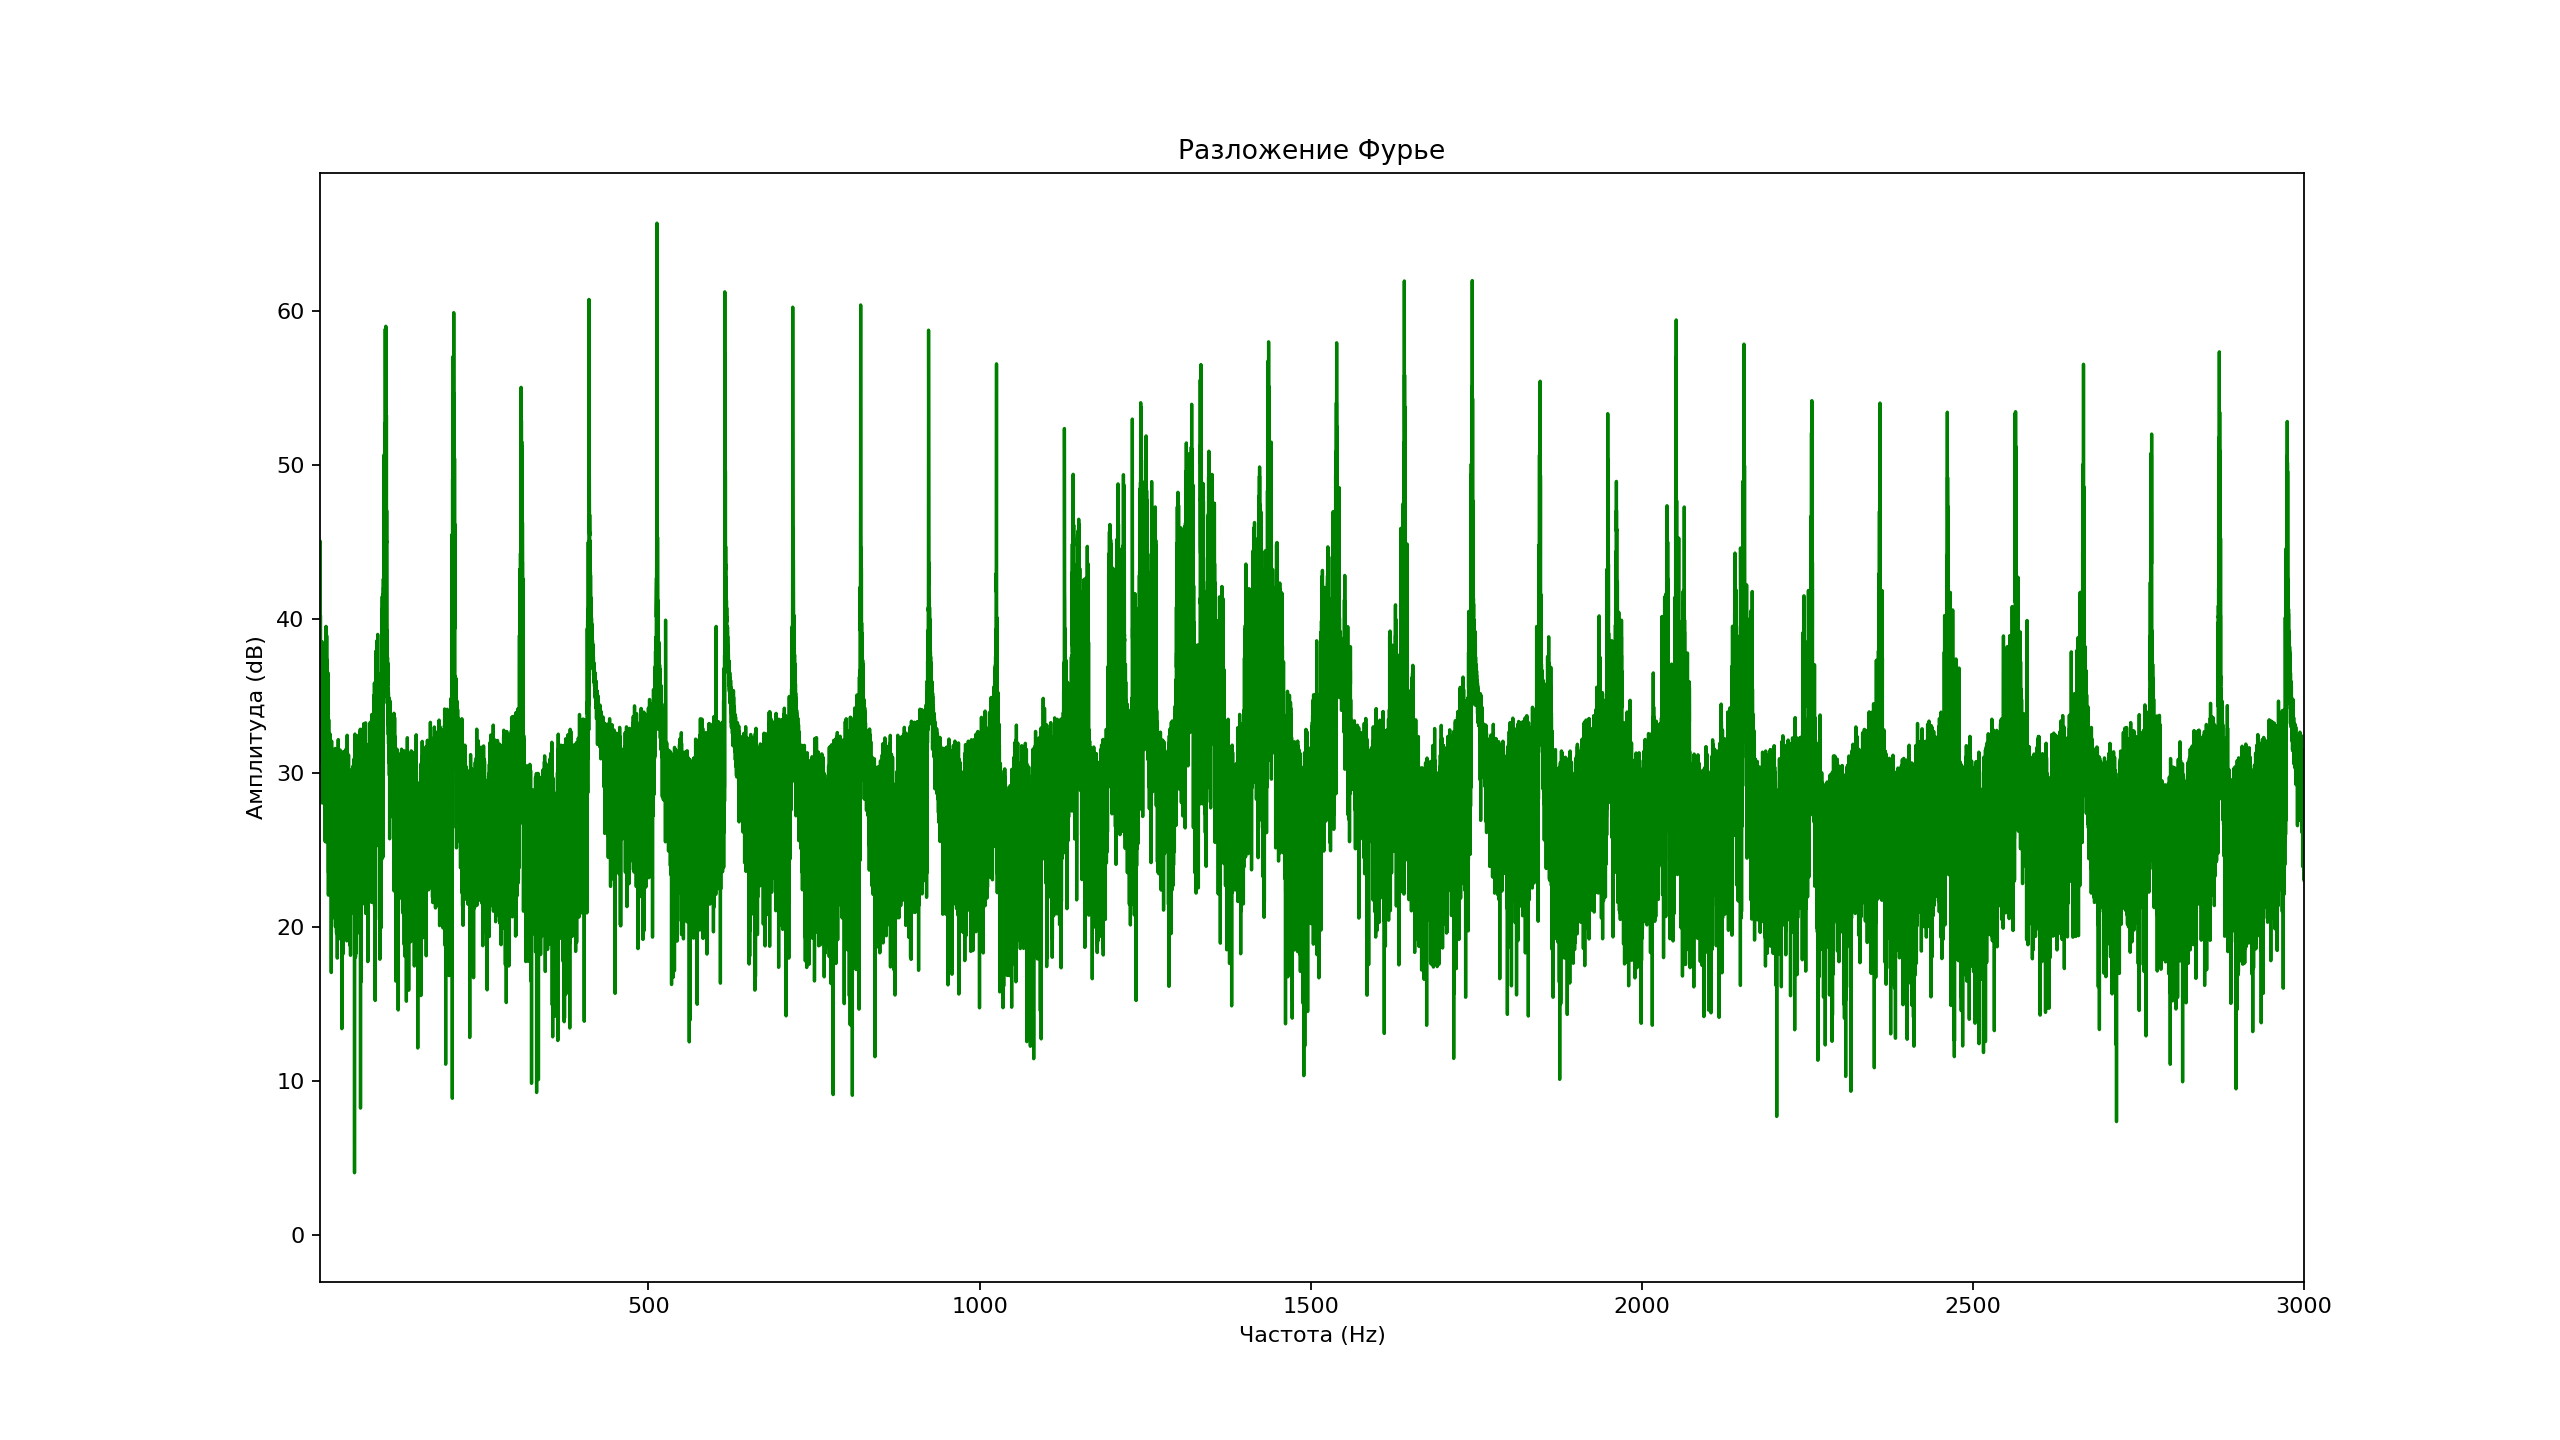
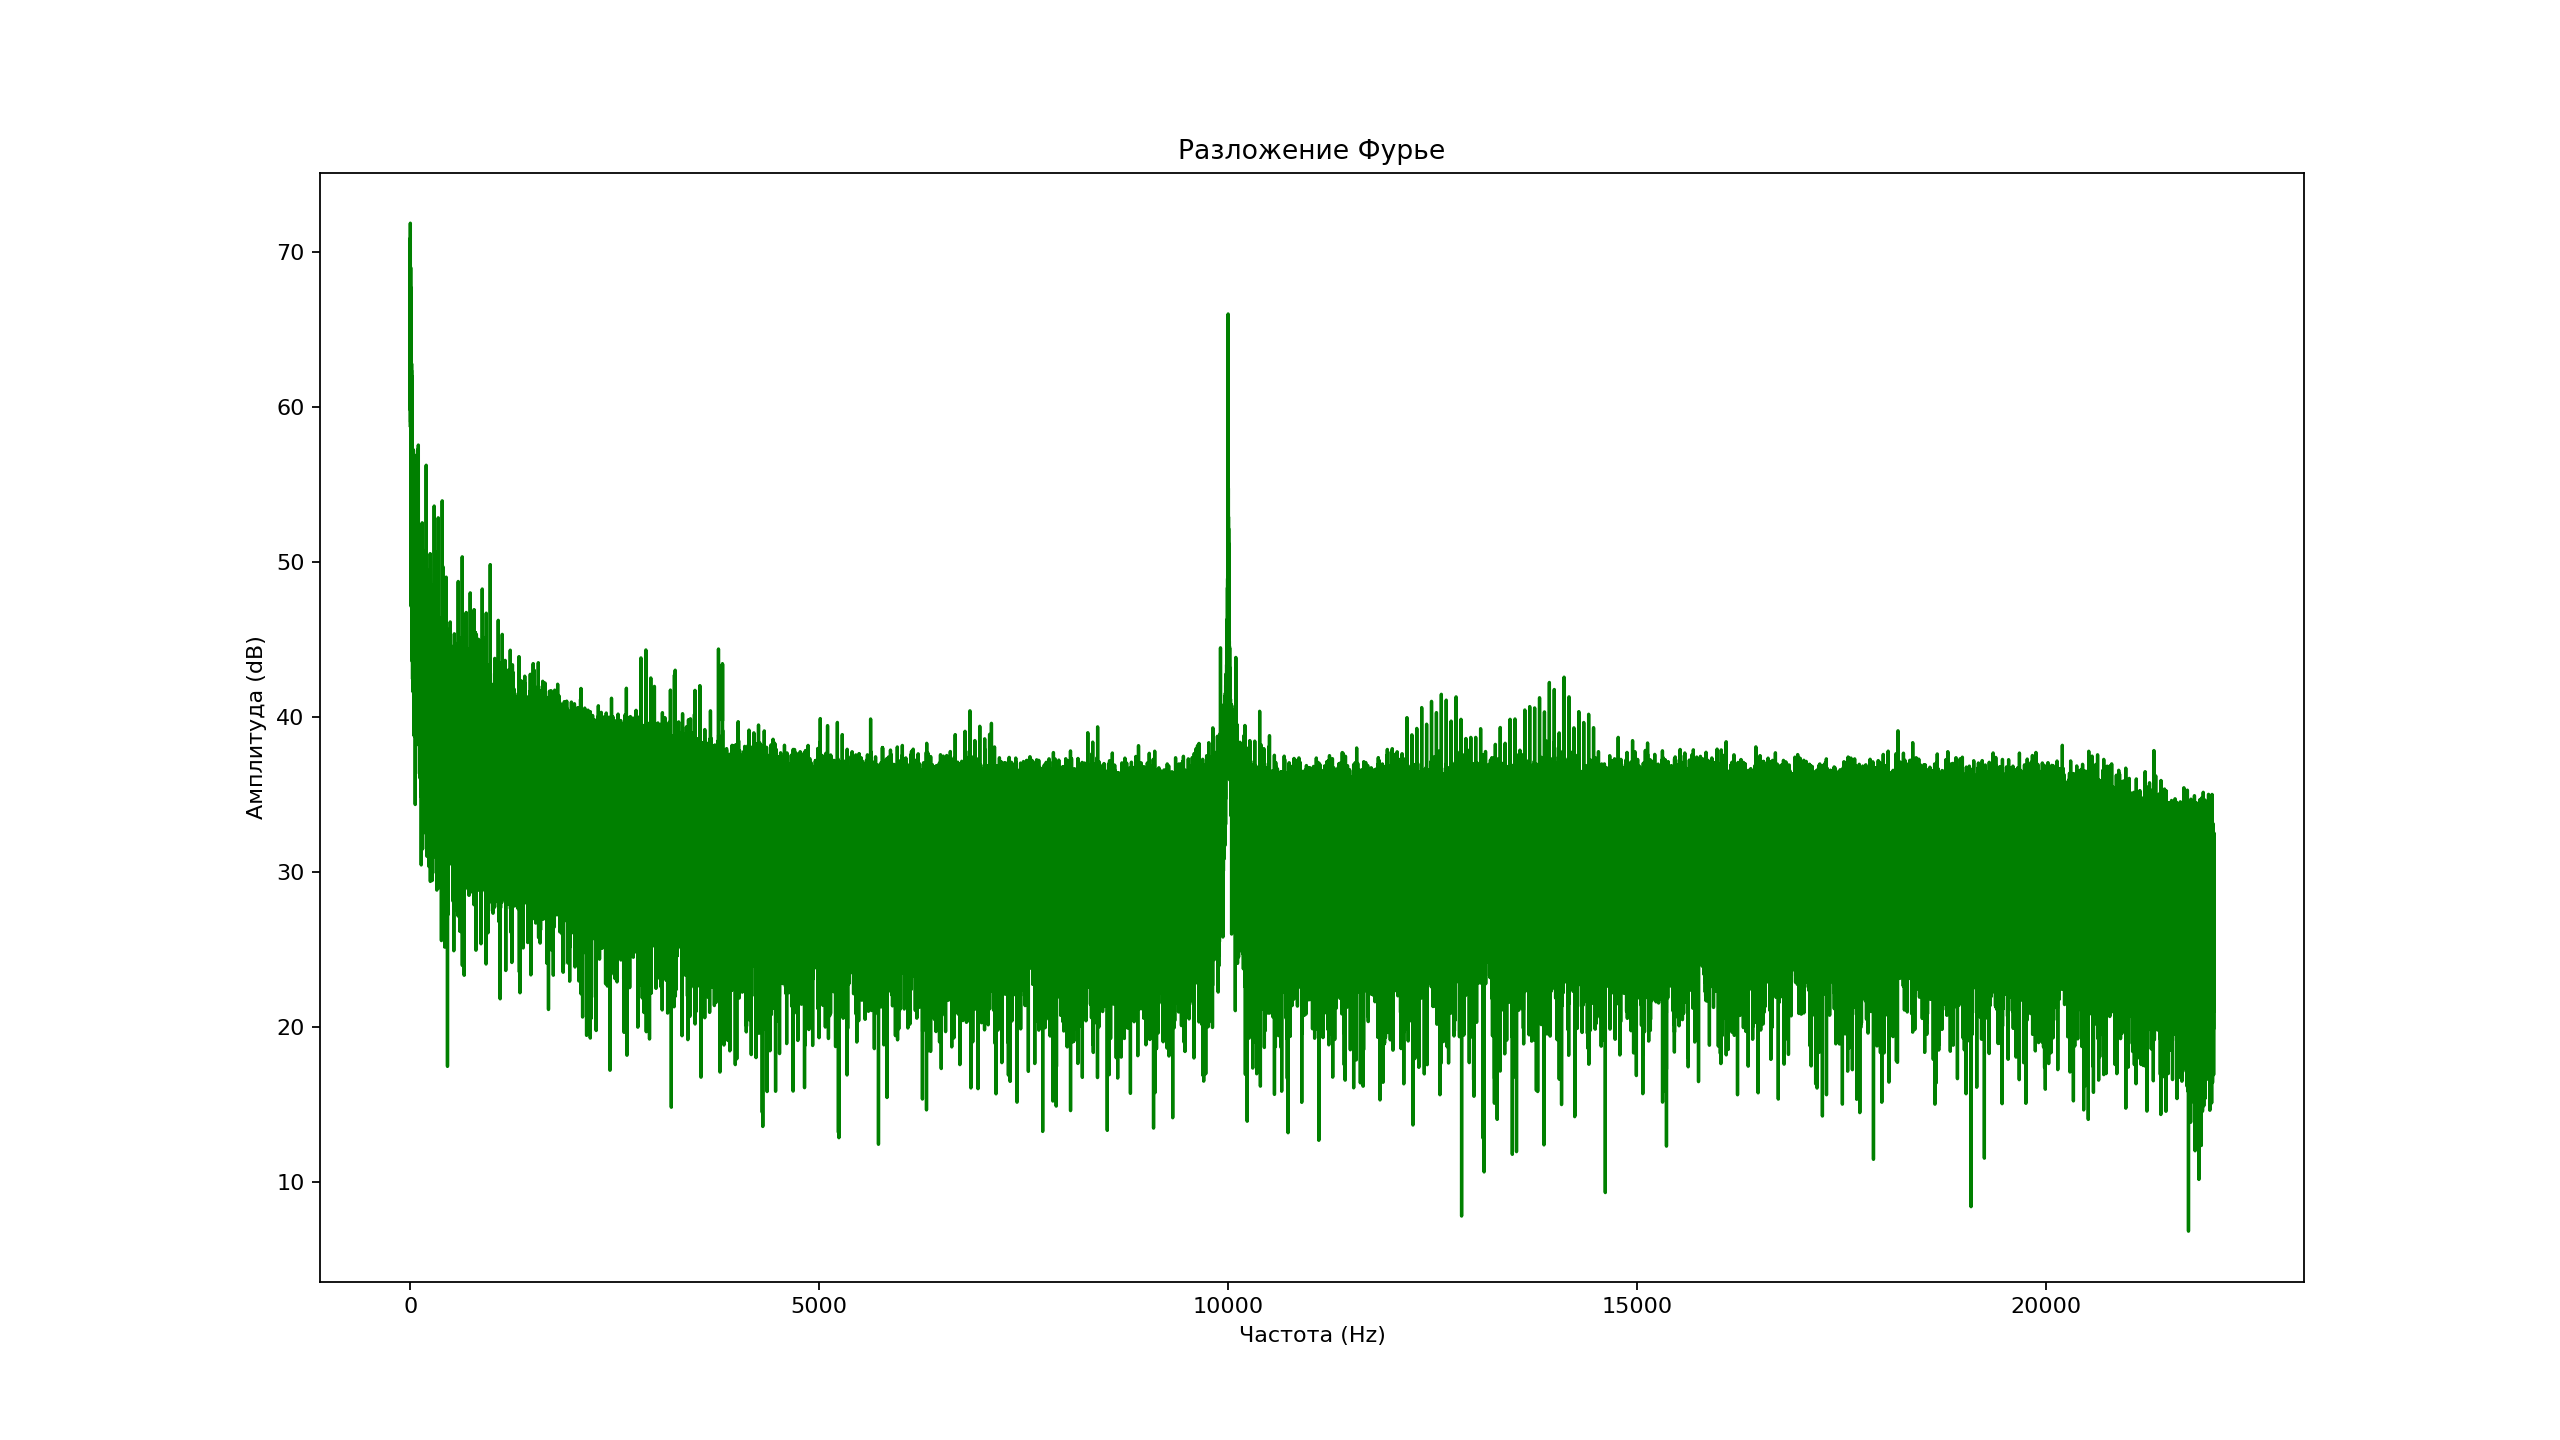
Исправлена запись файлов после разложения Фурье, нормально работает в одноканальном режиме

Changed region(s): [[0.125, 0.2188, 0.9062, 0.8125], [0.625, 0.875, 0.6562, 0.9062]]

diff --git a/fourier_transformer.py b/fourier_transformer.py
@@ -3,20 +3,48 @@ import numpy as np
 
 
 class Fft(object):
-    def __init__(self, fs, output_dir_fourier, prefix='four'):
+    def __init__(self, fs, chunk_size, four_length_second, output_dir_fourier, prefix='four'):
         self.fs = fs
+        self.chunk_size = chunk_size
+        self.four_length_second = four_length_second
+        self.max_frame_count = int(np.floor(self.four_length_second * self.fs /
+                                            self.chunk_size))
         self.name = None
         self.prefix = prefix
         self.output_dir_fourier = output_dir_fourier
+        self.count_frame = 0
+        self.io_flag = False
 
-    def transform(self, achank):
-        """
-        Вроде высчитывает преобразование Фурье
-        """
-        decoded = np.frombuffer(achank[0], dtype=np.int16)  # Только левый канал
-        FFT = np.fft.rfft(decoded)  # Преобразование Фурье
+    def open_file(self):
         filename = os.path.join(self.output_dir_fourier, self.prefix + '_' + self.name + ".bin")
-        file = open(filename, 'ab')
-        np.array(FFT, dtype=np.csingle).tofile(file)
-        file.close()
+        try:
+            self.file = open(filename, 'wb')
+            self.io_flag = True
+        except IOError as ie:
+            self.io_flag = False
+
+    def write_four(self, input_stream):
+        """
+        Записывает звук, преобразованный через Фурье (Вероятно)
+        """
+        if self.count_frame == 0:
+            self.open_file()
+            self.segment = []
+        if self.count_frame == self.max_frame_count:
+            # Записывает отрезок и открывает новый
+            FFT = np.fft.rfft(self.segment)
+            np.array(FFT, dtype=np.csingle).tofile(self.file)
+            self.file.close()
+            self.open_file()
+            self.count_frame = 0
+            self.segment = []
+        if self.io_flag:
+            self.segment.extend(np.frombuffer(input_stream[0], dtype=np.int16))
+            #result = np.reshape(result, (frames_per_buffer, 2))
+            #Now to access the left channel, use result[:, 0], and for right channel, use result[:, 1]
+            self.count_frame += 1
+
         return None
+
+    def close_file(self):
+        self.file.close()

diff --git a/main_recorder.py b/main_recorder.py
@@ -9,7 +9,7 @@ from fourier_transformer import Fft
 QMAXSIZE = 20  # Максимальное число элементов в очереди
 audio_input_queue = multiprocessing.Queue(QMAXSIZE)
 
-n_channels = 2  # Число каналов
+n_channels = 1  # Число каналов
 fs = 44100  # Частота дискретизации
 chunk_size = 1024 * n_channels  # Размер чанка в фреймах
 stream_reader = audio_reader.Reader(audio_input_queue, n_channels, fs, chunk_size)  # Микрофон
@@ -31,7 +31,8 @@ count = 0
 output_dir_fourier = os.path.join('./data/fourier')
 os.makedirs(os.path.dirname(output_dir_fourier), exist_ok=True)
 filename_prefix_fourier = 'four'
-fft = Fft(fs=fs, output_dir_fourier=output_dir_fourier, prefix=filename_prefix_fourier)
+fft = Fft(fs=fs, chunk_size=chunk_size, four_length_second=wav_length_second,
+          output_dir_fourier=output_dir_fourier, prefix=filename_prefix_fourier)
 
 stream_reader.start_streaming()
 start_time = time.time()
@@ -40,7 +41,7 @@ while count < max_count:
         achunk = audio_input_queue.get()
         file_writer.write_wav(achunk)
         fft.name = file_writer.name
-        fft.transform(achunk)
+        fft.write_four(achunk)
         count += 1
 print('Длительность работы программы: {:.4f} s'.format(time.time() - start_time))
 print('Длительность записанных wav файлов: {:.4f} s'.format(chunk_size * max_count / fs))

diff --git a/test3.py b/test3.py
@@ -1,18 +1,19 @@
 import matplotlib.pyplot as plt
 import numpy as np
 
-f = open('./data/fourier/four_2021-09-07-20-35-07.bin', 'rb')
+f = open('./data/fourier/four_2021-09-08-16-08-23.bin', 'rb')
 data = np.fromfile(f, dtype=np.csingle)
 f.close()
 N = int(len(data) * 2) - 1  # Нужно переделать, не знаю почему так
 T = 1 / 44100
 xf = np.fft.rfftfreq(N, T)
-yf = 10*np.log10(data)  # Возможно перевод в децибелы
+yf = 10*np.log10(np.abs(data))  # Возможно перевод в децибелы
+#yf = np.abs(data)
 
-plt.subplot(1,1,1, label="test")
+plt.subplot(1, 1, 1, label="test")
 plt.title('Разложение Фурье')
 plt.plot(xf, yf, 'g')
-plt.xlim(4, 3000)
+#plt.xlim(4, 3000)
 plt.ylabel('Амплитуда (dB)')
 plt.xlabel('Частота (Hz)')
 
